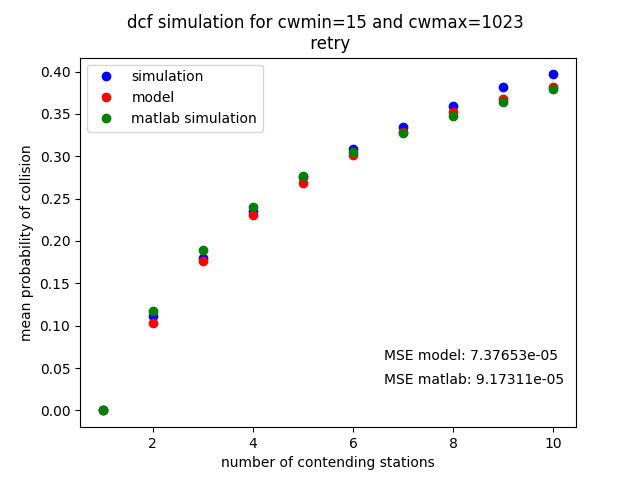
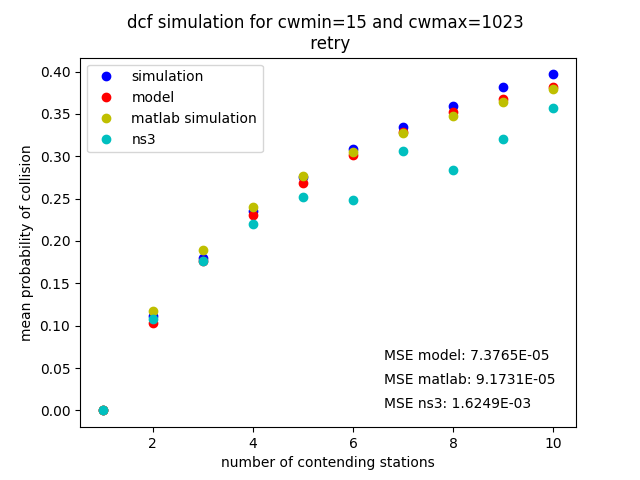
splits running simulation and results processing into two scripts, adds ns3 results to validation

diff --git a/run_simulation.py b/run_simulation.py
@@ -24,7 +24,7 @@ simulation_results = []
 for n in no_stations:
     for r in runs:
         current_run = [r, n, cw_min, cw_max]
-        run_results = dcf_simulation(n, cw_min, cw_max, r)
+        run_results = dcf_simulation(N=n, cw_min=cw_min, cw_max=cw_max, seed=r, mac_payload=1472)
         current_run.extend([
             run_results.mean_collision_probability,
             run_results.mean_throughput])
@@ -32,7 +32,7 @@ for n in no_stations:
 
 simulation_results = np.array(simulation_results)
 
-# probability of collision validation
+# probability of collision results
 p_coll_results = pd.DataFrame(np.delete(simulation_results, -1, axis=1), columns=[
     'run',
     'N',
@@ -41,32 +41,14 @@ p_coll_results = pd.DataFrame(np.delete(simulation_results, -1, axis=1), columns
     'p_coll_simulation'
 ])
 
-# extracting probability of collision from results of model calculation
-validation_results = pd.read_csv(f'validation/results_validation_{cw_min}_{cw_max}.csv')
-validation_p_coll = validation_results[['N', 'p_coll']]
-
-#extracting probability of collision from results of matlab wifi_nr_model simulation
-matlab_results = pd.read_csv('validation/results_matlab_ready.csv')
-p_coll_matlab = matlab_results[['N', 'p_coll_matlab']]
-
-#merging the simulation and model results
-p_coll_results = p_coll_results.merge(validation_p_coll, on='N')
-p_coll_results = p_coll_results.rename(columns={'p_coll':'p_coll_model'})
-
-p_coll_results.to_csv(f'results/simulation_results_{cw_min}_{cw_max}_{retry}.csv')
-
 # grouping the results by the same value of N and calculating the mean of probability of collision for each N
-final_p_coll_results = p_coll_results.groupby([
+p_coll_results = p_coll_results.groupby([
     'N',
     'cw_min',
-    'cw_max',
-    'p_coll_model'
+    'cw_max'
     ])['p_coll_simulation'].mean().reset_index(name='p_coll_simulation')
 
-#merging matlab results
-final_p_coll_results = final_p_coll_results.merge(p_coll_matlab, on='N')
-
-# throughput validation
+#throughput results
 throughput_results = pd.DataFrame(np.delete(simulation_results, -2, axis=1), columns=[
     'run',
     'N',
@@ -82,8 +64,9 @@ throughput_results = throughput_results.groupby([
     'cw_max'
 ])['throughput_simulation'].mean().reset_index(name='throughput_simulation')
 
-#merging throughput to the final results
-final_results = final_p_coll_results.merge(throughput_results, on=['N', 'cw_min', 'cw_max'])
+#converting the throughput into Mbits/s
+throughput_results['throughput_simulation'] = throughput_results['throughput_simulation'].div(1e6).round(4)
 
-#saving results as csv file
-final_results.to_csv(f'results/final_results_{cw_min}_{cw_max}_{retry}.csv')
+#merging averege results of throughput and p_coll and saving as simulation results
+dcf_simulation_results = pd.merge(p_coll_results, throughput_results, on=['N', 'cw_min', 'cw_max'])
+dcf_simulation_results.to_csv(f'results/simulation_results_{cw_min}_{cw_max}_{retry}.csv', index=False)

diff --git a/validation.py b/validation.py
@@ -1,0 +1,38 @@
+import pandas as pd
+
+# configuration data of the simulation
+N = 10 #number of contending stations
+R = 10 #number of times simulation for each quantity of contending stations is repeated to get more probable results
+cw_min = 15
+cw_max = 1023
+retry_limit = True
+
+if retry_limit:
+    retry = 'retry'
+else:
+    retry = 'no_retry'
+
+#simulation results
+simulation_results = pd.read_csv(f'results/simulation_results_{cw_min}_{cw_max}_{retry}.csv', index_col=False)
+
+# extracting probability of collision from results of model calculation
+model_results = pd.read_csv(f'validation/results_validation_{cw_min}_{cw_max}.csv')
+model_p_coll = model_results[['N', 'p_coll']]
+model_p_coll.columns = ['N', 'p_coll_model']
+
+#extracting probability of collision from results of matlab wifi_nr_model simulation
+matlab_results = pd.read_csv('validation/results_matlab_ready.csv')
+matlab_p_coll = matlab_results[['N', 'p_coll_matlab']]
+
+#adding results from ns3 simulator
+ns3_results = pd.read_csv('validation/ns3_results.csv')
+ns3_results = ns3_results[['N', 'p_coll', 'thr']]
+ns3_results.columns = ['N', 'p_coll_ns3', 'thr_ns3']
+
+#merging the simulation, model, matlab and ns3 results
+final_results = simulation_results.merge(model_p_coll, on='N')
+final_results = final_results.merge(matlab_p_coll, on='N')
+final_results = final_results.merge(ns3_results, on='N')
+
+#saving results as csv file
+final_results.to_csv(f'results/final_results_{cw_min}_{cw_max}_{retry}.csv', index=False)
